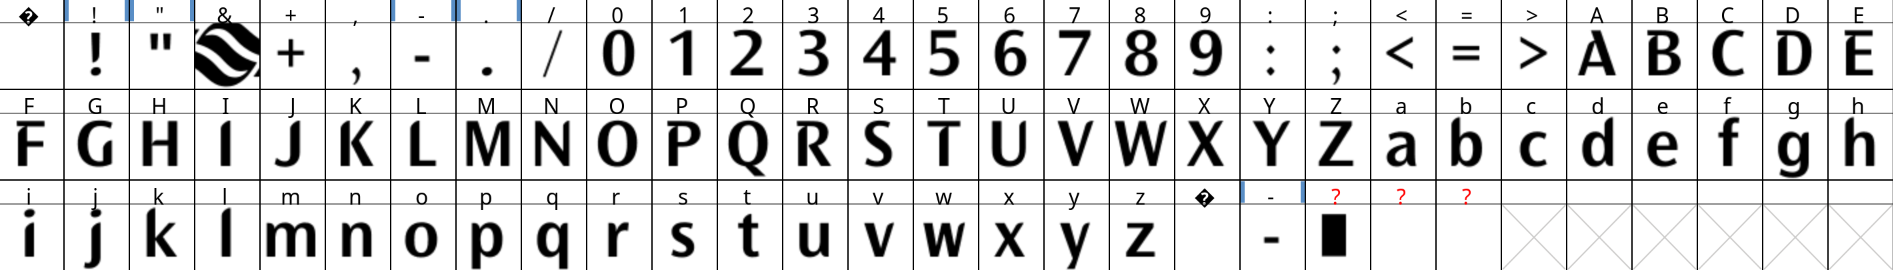
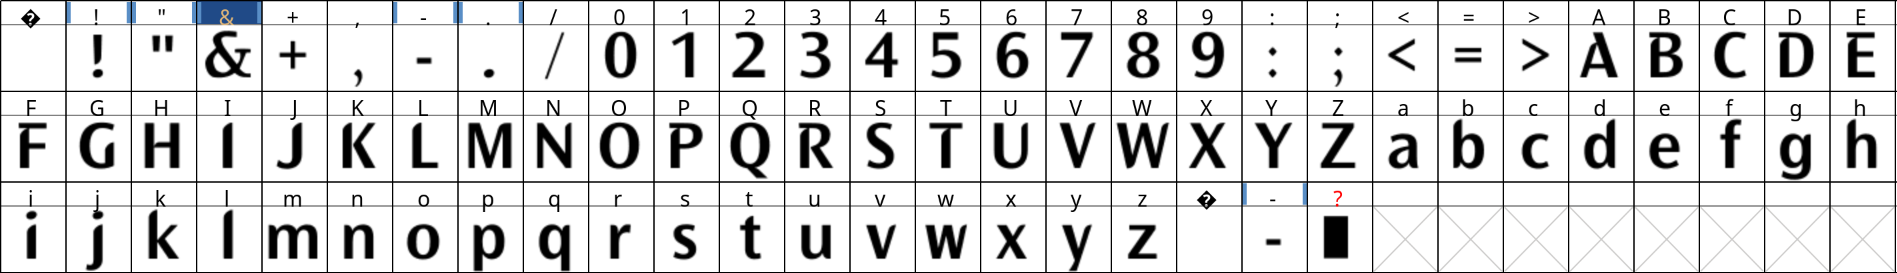
added &

Changed region(s): [[0.0, 0.0, 1.0, 1.0], [0.4987, 0.9185, 0.561, 0.9481], [0.2182, 0.2074, 0.2493, 0.237]]

diff --git a/README.md b/README.md
@@ -5,6 +5,9 @@ Reconstruction of the LTAIdentity font, a Humanistic sans-serif font that is com
 
 [Download it from the Releases](https://github.com/Spleefies/IdentityFont/releases)
 
+## How was it made?
+This was forked from [jglim/IdentityFont](https://github.com/jglim/IdentityFont), and the characters added after were pulled from [this document](https://www.lta.gov.sg/content/dam/ltagov/who_we_are/statistics_and_publications/books/pdf/REthink_190918web.pdf) using MuPDF.
+
 ## Is it exact?
 
 ![Overlay](https://raw.githubusercontent.com/Spleefies/IdentityFont/main/docs/resources/overlay.jpg)
@@ -19,7 +22,7 @@ Please let me know if there are better approaches to this issue.
 ![Glyphs](https://raw.githubusercontent.com/Spleefies/IdentityFont/main/docs/resources/glyphs.png)
 
 ## Does it support hinting?
-No, this is a title font and isn't intended to be a display font. I would not recommend typing an entire document, or replacing your OS font with this.
+No.
 
 ## There seems to be another font that's used in our public transport..?
 That would most likely be _Ocean Sans_, which is frequently used together with their Identity font.
